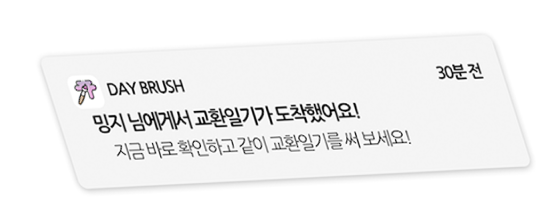
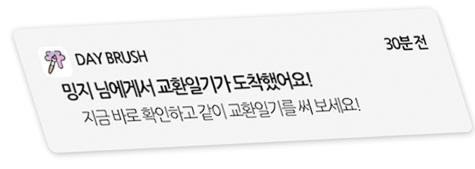
사이즈 수정

Changed region(s): [[0.0884, 0.2959, 0.7663, 0.7988], [0.0884, 0.7692, 1.0, 0.9467], [0.7958, 0.2071, 0.9137, 0.4142]]

diff --git a/docs/pf/work/index.css b/docs/pf/work/index.css
@@ -1,6 +1,6 @@
 /* 별 커스텀 */
 .star-1 {
-  top:0.4%;
+  top: 0.3%;
   left:30%;
   opacity: 70%;
 }
@@ -144,36 +144,30 @@
 /* 와이어프레임 위치 */
 .wf-img_1 {
   top:31%;
-  left:5%;
+  left:0;
 }
 
 .wf-img_2 {
   top:36%;
-  left:5%;
+  left:0;
 }
 
 .wf-img_3 {
   top:41%;
-  left:5%;
+  left:0;
 }
 
-.wf > img {
-  width:95%;
-}
 
 /* 비디오 커스텀 */
 .D-phone {
   top:47.3%;
   left:65%;
   z-index: 1;
-}
-
-.D-phone > img {
-  width:77%;
+  width:20%;
 }
 
 .video-wrap {
-  width:17.3%;
+  width:17.7%;
 }
 
 .video-intro {
@@ -183,24 +177,14 @@
 
 
 /* 부가적이미지 */
-.D-main_intro {
-  top:0.7%;
-  left:-7.5%;
-  display:none;
-}
-
-.D-main_intro > img {
-  width:89%;
-}
 
 .D-main_introwrite {
-  top:3.4%;
-  left:51%;
-  display:none;
+  top:0.5%;
 }
 
-.D-main_introwrite > img, .D-explain > img {
+.D-main_introwrite > img {
   width:80%;
+  display: none;
 }
 
 .D-story {
@@ -215,88 +199,66 @@
 
 .D-alarm {
   top:52.4%;
-  left:23%;
-}
-
-.D-alarm > img {
-  width:63%;
+  left:25%;
+  width:28%;
 }
 
 .D-simple {
   top:58.1%;
   left:25.5%;
+  width:13%;
 }
 
 .D-diary {
   top:62.4%;
   left:36.5%;
   z-index: 1;
-}
-
-.D-diary > img, .D-simple > img {
-  width:77%;
-}
-
-.D-diary-2 > img {
-  width:68%;
-  opacity: 75%;
+  width:24%;
 }
 
 .D-diary-2 {
   top:63%;
   left:56.6%;
+  width:17%;
 }
 
-.D-main {
-  top:77.7%;
-  left:39.4%;
-  z-index: 1;
-}
-
-.D-main > img, .D-main-2 > img {
-  width:80%;
+.D-diary-2 > img {
+  opacity: 80%;
 }
 
 .D-main-2 {
-  top:78.5%;
-  left:15.5%;
+  top:78%;
+  left:14.5%;
+  width:19%;
 }
 
 .D-sharingmain {
   top:85.4%;
   left:45%;
   z-index: 2;
-}
-
-.D-explain {
-  top:70.5%;
-  left:24%;
-}
-
-.D-sharingmain > img, .D-sharing > img, .D-sharingmain-1 > img, .D-sharingmain-2 > img {
-  width:77%;
+  width:25%;
 }
 
 .D-sharing {
-  top:86.2%;
+  top:86.25%;
   left:36.7%;
+  width:17%;
 }
 
 .D-sharingmain-1 {
   top:86.2%;
   left:63%;
+  width:16.3%;
 }
 
 .D-sharingmain-2 {
   top:86.2%;
-  left:79.6%;
+  left:79.3%;
+  width:11.38%;
 }
 
 .D-footwrite {
   top:93.8%;
   left:8%;
-}
-
-.D-footwrite > img {
-  width:84%;
+  width:38%;
 }

diff --git a/docs/pf/work/index.html b/docs/pf/work/index.html
@@ -106,10 +106,8 @@
 
 
     <!-- 인트로 메인 화면 -->
-    <div class="absolute D-main_intro">
-      <img src="./img/main intro.png" alt="">
-    </div>
-    <div class="absolute D-main_introwrite">
+    
+    <div class="absolute D-main_introwrite w-full flex justify-center">
       <img src="./img/introwrite.png" alt="">
     </div>
 
@@ -159,16 +157,8 @@
     </div>
 
     <!-- 다이어리 메인 -->
-    <div class="absolute D-main">
-      <img src="./img/diarymain.png" alt="">
-    </div>
     <div class="absolute D-main-2">
       <img src="./img/personal 1.png" alt="">
-    </div>
-
-    <!-- 선택화면 -->
-    <div class="absolute D-explain">
-      <img src="./img/explain.png" alt="">
     </div>
 
     <!-- 교환일기 -->

diff --git a/docs/pf/work/index.js b/docs/pf/work/index.js
@@ -2,8 +2,7 @@ $(function () {
 
   function Intro_AnimationInit() {
     $(document).ready(function(){
-      $(".D-main_intro").fadeIn(1700);
-      $(".D-main_introwrite").fadeIn(1700);
+      $(".D-main_introwrite > img").fadeIn(1500);
     });
   }
 
